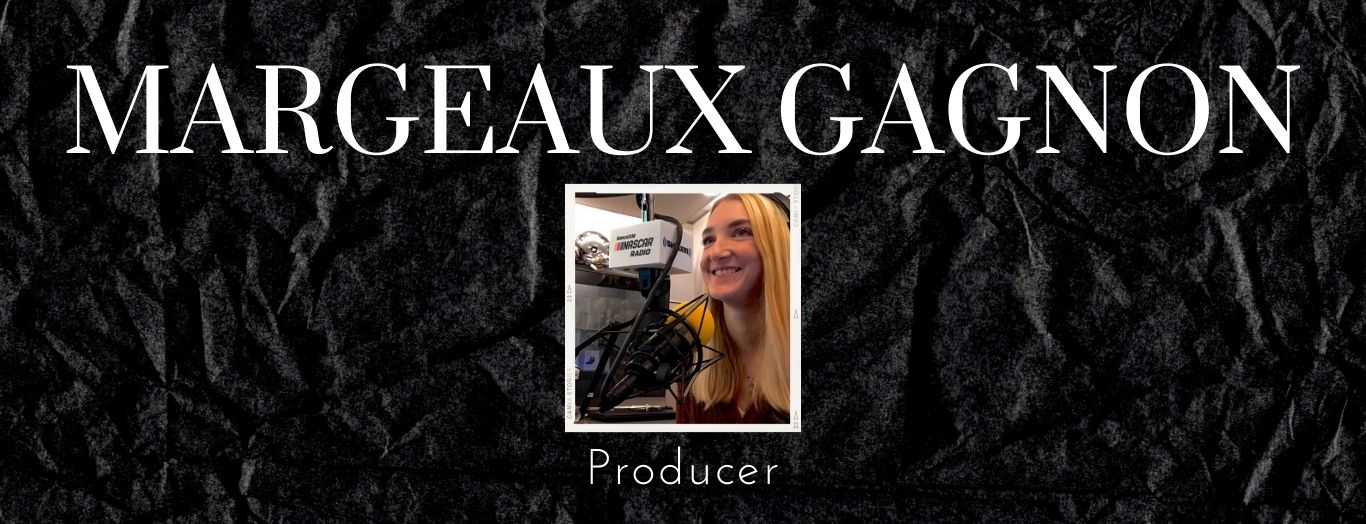
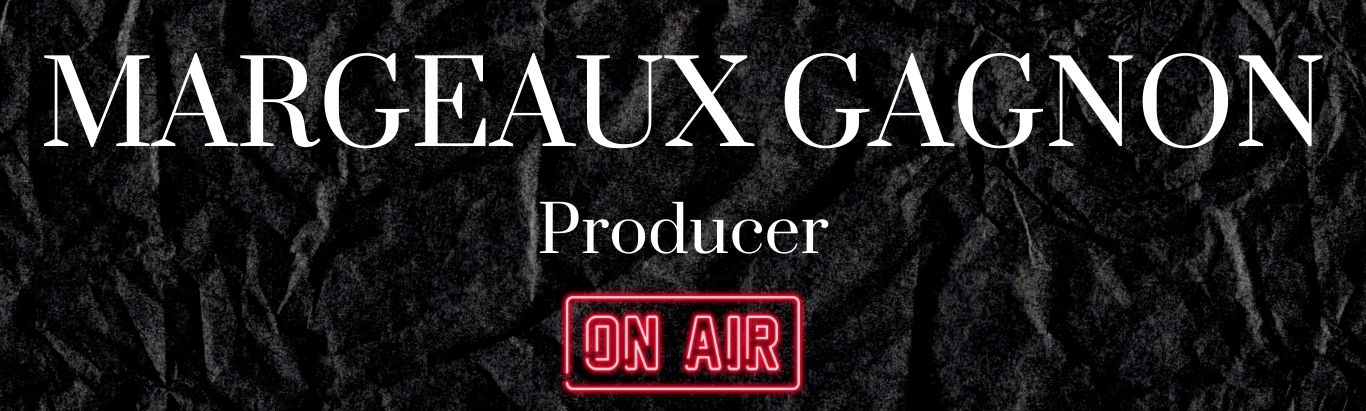
updated skills & Hero

diff --git a/resume_project/bootstrap_template.html b/resume_project/bootstrap_template.html
@@ -19,7 +19,7 @@
 
 <body>
   <!-- Navbar start-->
-  <nav class="navbar navbar-expand-lg navbar-light bg-light">
+  <nav class="navbar navbar-expand-lg navbar-dark bg-dark">
   <div class="container-fluid">
     <a class="navbar-brand" href="#">Margeaux Gagnon</a>
     <button class="navbar-toggler" type="button" data-bs-toggle="collapse" data-bs-target="#navbarSupportedContent" aria-controls="navbarSupportedContent" aria-expanded="false" aria-label="Toggle navigation">
@@ -56,79 +56,127 @@
 
  <!-- Hero start-->
 
- <div class="px-4 py-5 my-5 text-center">
-  <h1 class="display-5 fw-bold">About Me</h1>
-  <div class="col-lg-6 mx-auto">
-    <p class="lead mb-4">I am the producer for SiriusXM NASCAR Radio's flagship afternoon drive show and am responsible for booking big name guests on a daily basis. I have real world experience as a national radio producer and wokring with breaking news.</p>
-    <div class="d-grid gap-2 d-sm-flex justify-content-sm-center">
-      <button type="button" class="btn btn-primary btn-lg px-4 gap-3">Primary button</button>
-      <button type="button" class="btn btn-outline-secondary btn-lg px-4">Secondary</button>
+ <div class="container col-xxl-8 px-4 py-5">
+  <div class="row flex-lg-row-reverse align-items-center g-5 py-5">
+    <div class="col-10 col-sm-8 col-lg-6">
+      <img src="margeaux.jpg" class="d-block mx-lg-auto img-fluid" alt="Bootstrap Themes" width="700" height="500" loading="lazy">
+    </div>
+    <div class="col-lg-6">
+      <h1 class="display-5 fw-bold lh-1 mb-3">About Me</h1>
+      <p class="lead">I am the producer for SiriusXM NASCAR Radio's flagship afternoon drive show and am responsible for booking big name guests on a daily basis. I have real world experience as a national radio producer and wokring with breaking news.</p>
     </div>
   </div>
-  </div>
+</div>
   <!-- Hero end-->
 
  <!--experience--> 
-  
-      <div class="sectionheader">Experience</div>
+  <div id="experience">
+    <div class="sectionheader">Experience</div>
 
-      <div class="jobtitle">Producer</div>
-              <div class="organization"> SiriusXM NASCAR Radio</div>
-                  <div class="date">May 2022 - Present</div>
-                      <p class="description">Produce a daily sports talk show about NASCAR by booking relevant guests, creating topic ideas, and editing audio for use in the show.</p>
+        <div class="jobtitle">Producer</div>
+                <div class="organization"> SiriusXM NASCAR Radio</div>
+                    <div class="date">May 2022 - Present</div>
+                        <p class="description">Produce a daily sports talk show about NASCAR by booking relevant guests, creating topic ideas, and editing audio for use in the show.</p>
 
-      <div class="jobtitle">Associate Producer</div>
-          <div class="organization"> SiriusXM NASCAR Radio</div>
-              <div class="date">September 2019 - May 2022</div>
-                  <p class="description">Assist the producer in the running of a daily sports talk show by creating imaging, running the board for the show, and posting the show On Demand for replay. </p>
+        <div class="jobtitle">Associate Producer</div>
+            <div class="organization"> SiriusXM NASCAR Radio</div>
+                <div class="date">September 2019 - May 2022</div>
+                    <p class="description">Assist the producer in the running of a daily sports talk show by creating imaging, running the board for the show, and posting the show On Demand for replay. </p>
 
-      <div class="jobtitle">Video Editor</div>
-              <div class="organization"> Washington Commanders</div>
-                  <div class="date">August 2019 - March 2020</div>
-                  <p class="description">Edit videos for the Commanders NFL team for use on social media, the team’s website & television partners, and in stadium video boards.</p>
+        <div class="jobtitle">Video Editor</div>
+                <div class="organization"> Washington Commanders</div>
+                    <div class="date">August 2019 - March 2020</div>
+                    <p class="description">Edit videos for the Commanders NFL team for use on social media, the team’s website & television partners, and in stadium video boards.</p>
+  </div>
 
+  <div id="education">
       <div class="sectionheader">Education</div>
           <ul id="degrees">
-              <li>Bachelor of Arts, Journalism, University of Rhode Island, 2018</li>
+              Bachelor of Arts, Journalism, University of Rhode Island, 2018
           </ul>
+  </div>
 
-
-
+<!--skills-->
+<div class="sectionheader">Skills</div>
+    <div class="accordion" id="accordionExample">
+      <div class="accordion-item">
+        <h2 class="accordion-header">
+          <button class="accordion-button collapsed" type="button" data-bs-toggle="collapse" data-bs-target="#collapseOne" aria-expanded="true" aria-controls="collapseOne">
+            Film Editing with Adobe Premiere
+          </button>
+        </h2>
+        <div id="collapseOne" class="accordion-collapse collapse" data-bs-parent="#accordionExample">
+          <div class="accordion-body">
+            I have been editing video using Adobe Premiere for <strong> over 12 years.</strong> I have been using the program to edit video for a vareity of formats and platforms including for use on social media, television, Youtube, and in-game video board displays at sport stadiums. I consider myself an expert in this skill.
+          </div>
+        </div>
+      </div>
+      <div class="accordion-item">
+        <h2 class="accordion-header">
+          <button class="accordion-button collapsed" type="button" data-bs-toggle="collapse" data-bs-target="#collapseTwo" aria-expanded="false" aria-controls="collapseTwo">
+            Photo Editing with Adobe Photoshop
+          </button>
+        </h2>
+        <div id="collapseTwo" class="accordion-collapse collapse" data-bs-parent="#accordionExample">
+          <div class="accordion-body">
+            I have been using and editing photos in Adobe Photoshop for <strong>over eight years.</strong> I use the program on a daily basis in my current role to create images and posts for social media in order to promote content/events happening at my current workplace. I have also lead instructional courses to teach my team how to best use the program to accomplish similar projects. 
+          </div>
+        </div>
+      </div>
+      <div class="accordion-item">
+        <h2 class="accordion-header">
+          <button class="accordion-button collapsed" type="button" data-bs-toggle="collapse" data-bs-target="#collapseThree" aria-expanded="false" aria-controls="collapseThree">
+            Audio Editing with Dalet Galaxy
+          </button>
+        </h2>
+        <div id="collapseThree" class="accordion-collapse collapse" data-bs-parent="#accordionExample">
+          <div class="accordion-body">
+            I have been using and editing audio using Dalet Galaxy for <strong>five years.</strong> I use this program on a daily basis in my current role to store, save, ingest, record, and edit audio for radio production purposes. My current role also requires me to oversee and instruct new hires on how to use Dalet Galaxy and best practices and shortcuts to help make editing easier and faster. 
+          </div>
+        </div>
+      </div>
+      <div class="accordion-item">
+        <h2 class="accordion-header">
+          <button class="accordion-button collapsed" type="button" data-bs-toggle="collapse" data-bs-target="#collapseFour" aria-expanded="false" aria-controls="collapseFour">
+            Show production with Zetta
+          </button>
+        </h2>
+        <div id="collapseFour" class="accordion-collapse collapse" data-bs-parent="#accordionExample">
+          <div class="accordion-body">
+            I have been producing live radio broadcasts using Zetta for <strong>five years.</strong> I use the program on a daily basis in my current role to injest and play audio for use in live radio broadcasts. The Zetta log system is used to program a daily radio show schedule in both live and prerecorded formats.  
+          </div>
+        </div>
+      </div>
+    </div>
+  
 
   <!-- Start Grid-->
-    <div class="container">
+  <div id="contact">
+    <div class="sectionheader">Contact Me</div>
       <div class="row">
               <div class="col-md-3">
                 <i class="bi bi-twitter-x"></i>
-                      <h3 class="menu"><a href=" https://twitter.com/MargeauxGagnon" target="_blank">Twitter</a></h3>
+                      <h3 ><a href=" https://twitter.com/MargeauxGagnon" target="_blank">Twitter</a></h3>
                       <p>Follow me on X (formerly known as Twitter)</p>
               </div>
               <div class="col-md-3">
                 <i class="bi bi-linkedin"></i>
-                     <h3 class="menu"><a href="https://www.linkedin.com/in/margeauxgagnon/" target="_blank">LinkedIn</a></h3> 
+                     <h3><a href="https://www.linkedin.com/in/margeauxgagnon/" target="_blank">LinkedIn</a></h3> 
                       <p>Connect with me on LinkedIn</p>
               </div>
               <div class="col-md-3">
                 <i class="bi bi-github"></i>
-                      <h3 class="menu"><a href="https://github.com/mgagnon15" target="_blank">Github</a></h3>
+                      <h3><a href="https://github.com/mgagnon15" target="_blank">Github</a></h3>
                       <p>Check out my work on Github</p>
               </div>
               <div class="col-md-3">
                 <i class="bi bi-envelope-at-fill"></i>
-                      <h3 class="menu"><a href="mailto:mgagnon@umdedu" target="_blank">Email me!</a></h3>  
+                      <h3><a href="mailto:mgagnon@umdedu" target="_blank">Email me!</a></h3>  
                       <p>Reach out with any questions/inqueries about my resume</p>
               </div>
       </div>
     </div>
 
-  <style>
-    .bi {
-      font-size:3em;
-   }
-    .col-md-3 {
-      text-align: center;
-    }
-  </style>
 
   <!--End Grid-->
   <!-- Navbar end-->

diff --git a/resume_project/style.css b/resume_project/style.css
@@ -17,7 +17,7 @@
 
 /* "section titles" */
 .sectionheader{
-    font-size: 1.5em;
+    font-size: 3em;
     text-transform: uppercase;
     background-color: #000000;
     color: white;
@@ -26,7 +26,7 @@
     margin-bottom: 20px;
     margin-left: 0px;
     margin-right: 0px;
-    width: 70%;
+    width: 100%;
     min-width: 300px;
     text-align: center;
 }
@@ -74,5 +74,24 @@
     margin-bottom: 0px;
     margin-left: 0px;
     margin-right: 0px;
+    text-align: center;
+}
+
+#experience{
+    padding-bottom: 10%;
+}
+
+#education{
+    padding-bottom: 10%;
+}
+
+#contact{
+    padding-bottom: 10%;
+}
+
+.bi {
+    font-size:3em;
+}
+.col-md-3 {
     text-align: center;
 }
